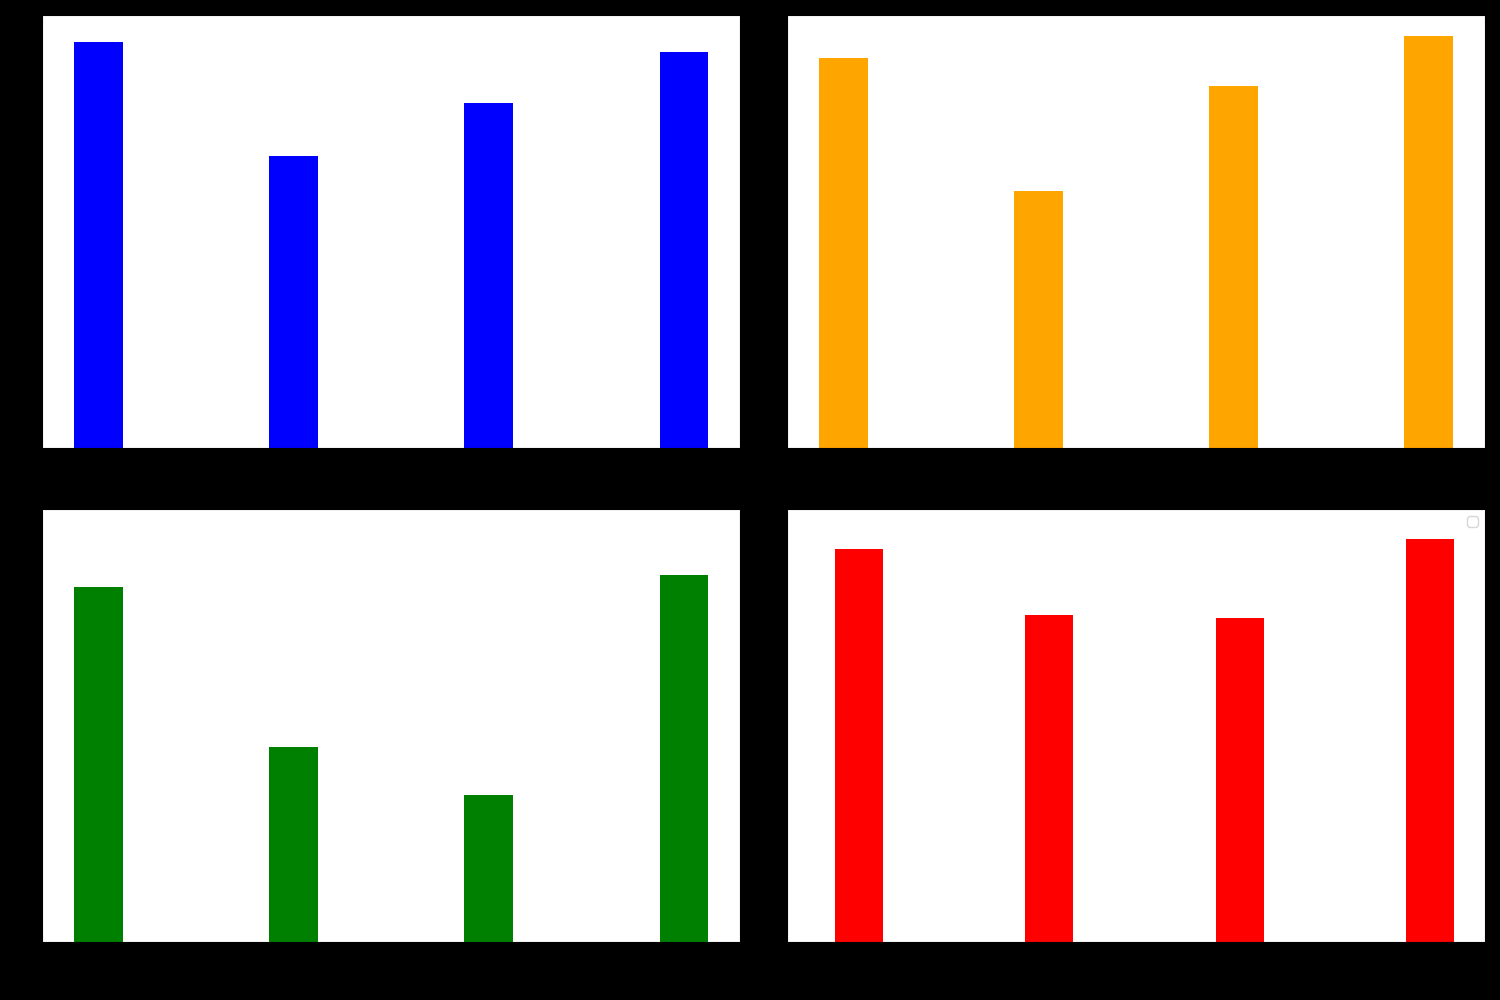
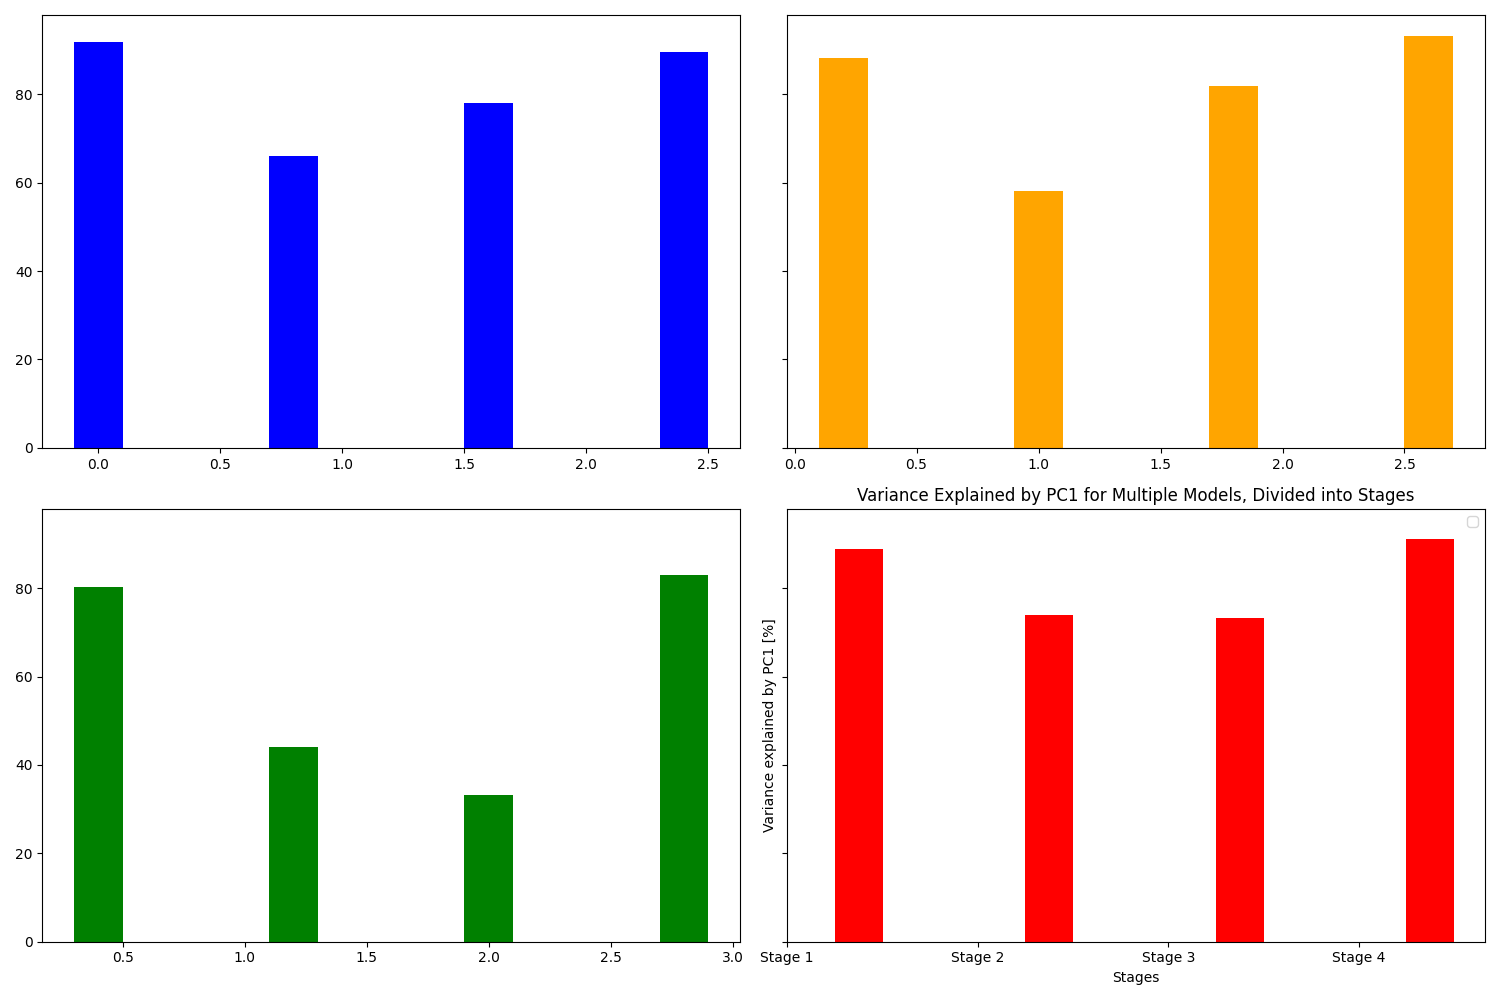
fix config

Changed region(s): [[0.0, 0.0, 1.0, 1.0]]

diff --git a/check_pca_features.py b/check_pca_features.py
@@ -122,21 +122,13 @@ models = [
     # Add more models if necessary
 ]
 
-input_tensors = []
-for model in models:
-    reshaped_tensor = process_model(
-        cfg_path=model['cfg_path'],
-        checkpoint_path=model['checkpoint_path'],
-        image_tensor=image_tensor,
-        use_original_hook=model['use_original_hook']
-    )
-    input_tensors.append(reshaped_tensor)
-
 threshold = 1e-5
 
 def feature_visualize(models, input_image):
-    cmap = plt.cm.gray
-    cmap = LinearSegmentedColormap.from_list('black', cmap(np.linspace(1, 0, 256)))    
+    #matplotlib.rcParams['figure.dpi'] = 600  # Set the DPI for the figures
+  
+    #cmap = plt.cm.gray
+    #cmap = LinearSegmentedColormap.from_list('black', cmap(np.linspace(1, 0, 256)))    
 
     # Set plot background color
     matplotlib.rcParams['figure.facecolor'] = 'black'    
@@ -155,7 +147,7 @@ def feature_visualize(models, input_image):
 
         # Visualize filter kernels in a 2x2 grid for each group
         n_rows, n_cols = 16, 16
-        fig = plt.figure(figsize=(16, 16))
+        fig = plt.figure(figsize=(24, 24), constrained_layout=True)
 
         for group_idx, group in enumerate(groups):
             grid = plt.GridSpec(2, 2, wspace=0.1, hspace=0.1)
@@ -169,12 +161,12 @@ def feature_visualize(models, input_image):
                     filter_idx = i * n_cols + j
                     filter_kernel = group[filter_idx].numpy()
                     sub_ax = fig.add_subplot(sub_grid[i, j])
-                    sub_ax.imshow(filter_kernel, cmap=cmap, vmin=-1, vmax=1, interpolation='nearest')
+                    sub_ax.imshow(filter_kernel, cmap='gray', vmin=-1, vmax=1, interpolation='nearest')
                     sub_ax.axis('off')
 
         print(model['label'], os.path.dirname(os.path.abspath(__file__)))
         BASE_DIR = os.path.dirname(os.path.abspath(__file__))
-        plt.tight_layout()
+        #plt.tight_layout()
         plt.savefig(os.path.join(BASE_DIR,"results",f"feat_{model['label']}.png"), dpi=600)
         plt.close()
 
@@ -193,7 +185,7 @@ def feature_visualize(models, input_image):
             similar_images.append(group[indices])
 
         # Visualize the 10 most similar images for each group
-        fig, axs = plt.subplots(4, 10, figsize=(16, 8))
+        fig, axs = plt.subplots(4, 10, figsize=(24, 12))
         for i in range(4):
             for j in range(10):
                 ax = axs[i, j]
@@ -207,7 +199,7 @@ def feature_visualize(models, input_image):
 
         ipython_display(os.path.join(BASE_DIR,"results",f"similar_images_{model['label']}.png"))
 
-feature_visualize(models, image_tensor)
+#feature_visualize(models, image_tensor)
 
 def plot_histogram(models, input_image):
     input_tensors = []
@@ -231,9 +223,11 @@ def plot_histogram(models, input_image):
 
         explained_variance_ratios_per_group = []
         for group in groups:
+            print("group", group.shape)
             explained_variance_ratios = []
             filter_kernel_np = group.numpy().reshape(256, -1)
-            pca = PCA(n_components=256)
+            print("filter_kernel_np", filter_kernel_np.shape)
+            pca = PCA()
             pca.fit(filter_kernel_np)
 
             explained_variance = np.sum(pca.explained_variance_[i] for i in range(1))
@@ -244,6 +238,12 @@ def plot_histogram(models, input_image):
             else:
                 explained_variance_ratios.append(0)
             explained_variance_ratios_per_group.append(explained_variance_ratios)
+
+        print("size : ", pca.explained_variance_ratio_.shape, pca.explained_variance_ratio_ * 100)
+        plt.plot(np.cumsum(pca.explained_variance_ratio_))
+        plt.xlabel('Number of components')
+        plt.ylabel('Explained variance')
+        plt.savefig('elbow_plot.png', dpi=100)
 
         for group_idx, group_ratios in enumerate(explained_variance_ratios_per_group):
             n = len(group_ratios)
